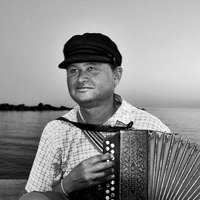
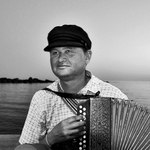
change imeges uploaders

diff --git a/app/models/team.rb b/app/models/team.rb
@@ -1,5 +1,5 @@
 class Team < ActiveRecord::Base
-  mount_uploader :photo, PhotoUploader
+  mount_uploader :photo, ImageUploader
   validates :name, presence: true
   validates :info, presence: true
 end
